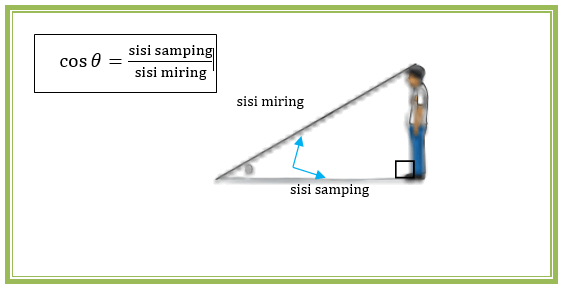
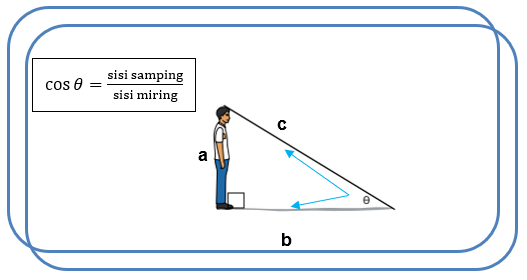
first commit

Changed region(s): [[0.0, 0.0, 1.0, 1.0], [0.3643, 0.2, 0.7894, 0.7714]]

diff --git a/scripts/next2.js b/scripts/next2.js
@@ -110,7 +110,103 @@ if (window.addEventListener) {
 <li>
 <b>Cosinus</b><br>
 Nilai Perbandingan ini mempunyai nama khusus yaitu Cosinus (disingkat Cos). Cos suatu sudut yang dapat ditentukan dengan membagi panjang <b class="text-danger">sisi samping</b>   dan <b class="text-danger">sisi miring segitiga</b> .  <br>
-<img src="../images/cosinus.png" class="img-fluid w-75" alt="Responsive image"> 
+<img src="../images/cosinus.png" class="img-fluid w-75" alt="Responsive image"> </br>pada gambar di atas manakah sisi samping dan sisi miring? 
+<iframe
+ id="JotFormIFrame-232170612128446"
+ title="Jawab"
+ onload="window.parent.scrollTo(0,0)"
+ allowtransparency="true"
+ allowfullscreen="true"
+ allow="geolocation; microphone; camera"
+ src="https://form.jotform.com/232170612128446"
+ frameborder="0"
+ style="min-width:100%;max-width:100%;height:539px;border:none;"
+ scrolling="yes"
+>
+</iframe>
+<script type="text/javascript">
+var ifr = document.getElementById("JotFormIFrame-232170612128446");
+if (ifr) {
+ var src = ifr.src;
+ var iframeParams = [];
+ if (window.location.href && window.location.href.indexOf("?") > -1) {
+   iframeParams = iframeParams.concat(window.location.href.substr(window.location.href.indexOf("?") + 1).split('&'));
+ }
+ if (src && src.indexOf("?") > -1) {
+   iframeParams = iframeParams.concat(src.substr(src.indexOf("?") + 1).split("&"));
+   src = src.substr(0, src.indexOf("?"))
+ }
+ iframeParams.push("isIframeEmbed=1");
+ ifr.src = src + "?" + iframeParams.join('&');
+}
+window.handleIFrameMessage = function(e) {
+ if (typeof e.data === 'object') { return; }
+ var args = e.data.split(":");
+ if (args.length > 2) { iframe = document.getElementById("JotFormIFrame-" + args[(args.length - 1)]); } else { iframe = document.getElementById("JotFormIFrame"); }
+ if (!iframe) { return; }
+ switch (args[0]) {
+   case "scrollIntoView":
+     iframe.scrollIntoView();
+     break;
+   case "setHeight":
+     iframe.style.height = args[1] + "px";
+     if (!isNaN(args[1]) && parseInt(iframe.style.minHeight) > parseInt(args[1])) {
+       iframe.style.minHeight = args[1] + "px";
+     }
+     break;
+   case "collapseErrorPage":
+     if (iframe.clientHeight > window.innerHeight) {
+       iframe.style.height = window.innerHeight + "px";
+     }
+     break;
+   case "reloadPage":
+     window.location.reload();
+     break;
+   case "loadScript":
+     if( !window.isPermitted(e.origin, ['jotform.com', 'jotform.pro']) ) { break; }
+     var src = args[1];
+     if (args.length > 3) {
+         src = args[1] + ':' + args[2];
+     }
+     var script = document.createElement('script');
+     script.src = src;
+     script.type = 'text/javascript';
+     document.body.appendChild(script);
+     break;
+   case "exitFullscreen":
+     if      (window.document.exitFullscreen)        window.document.exitFullscreen();
+     else if (window.document.mozCancelFullScreen)   window.document.mozCancelFullScreen();
+     else if (window.document.mozCancelFullscreen)   window.document.mozCancelFullScreen();
+     else if (window.document.webkitExitFullscreen)  window.document.webkitExitFullscreen();
+     else if (window.document.msExitFullscreen)      window.document.msExitFullscreen();
+     break;
+ }
+ var isJotForm = (e.origin.indexOf("jotform") > -1) ? true : false;
+ if(isJotForm && "contentWindow" in iframe && "postMessage" in iframe.contentWindow) {
+   var urls = {"docurl":encodeURIComponent(document.URL),"referrer":encodeURIComponent(document.referrer)};
+   iframe.contentWindow.postMessage(JSON.stringify({"type":"urls","value":urls}), "*");
+ }
+};
+window.isPermitted = function(originUrl, whitelisted_domains) {
+ var url = document.createElement('a');
+ url.href = originUrl;
+ var hostname = url.hostname;
+ var result = false;
+ if( typeof hostname !== 'undefined' ) {
+   whitelisted_domains.forEach(function(element) {
+       if( hostname.slice((-1 * element.length - 1)) === '.'.concat(element) ||  hostname === element ) {
+           result = true;
+       }
+   });
+   return result;
+ }
+};
+if (window.addEventListener) {
+ window.addEventListener("message", handleIFrameMessage, false);
+} else if (window.attachEvent) {
+ window.attachEvent("onmessage", handleIFrameMessage);
+}
+</script> 
 </li>
 
 <li>
@@ -118,7 +214,103 @@ Nilai Perbandingan ini mempunyai nama khusus yaitu Cosinus (disingkat Cos). Cos 
 Nilai Perbandingan ini mempunyai nama khusus yaitu Tangen 
 (disingkat tan). Tan suatu sudut yang dapat ditentukan dengan membagi panjang <b class="text-danger">sisi depan</b>  dan <b class="text-danger">sisi samping segitiga</b>. 
   <br>
-<img src="../images/tangen.png" class="img-fluid w-75" alt="Responsive image"> 
+<img src="../images/tangen.png" class="img-fluid w-75" alt="Responsive image"> </br> pada gambar di atas manakah sisi samping dan sisi miring? 
+<iframe
+ id="JotFormIFrame-232170612128446"
+ title="Jawab"
+ onload="window.parent.scrollTo(0,0)"
+ allowtransparency="true"
+ allowfullscreen="true"
+ allow="geolocation; microphone; camera"
+ src="https://form.jotform.com/232170612128446"
+ frameborder="0"
+ style="min-width:100%;max-width:100%;height:539px;border:none;"
+ scrolling="yes"
+>
+</iframe>
+<script type="text/javascript">
+var ifr = document.getElementById("JotFormIFrame-232170612128446");
+if (ifr) {
+ var src = ifr.src;
+ var iframeParams = [];
+ if (window.location.href && window.location.href.indexOf("?") > -1) {
+   iframeParams = iframeParams.concat(window.location.href.substr(window.location.href.indexOf("?") + 1).split('&'));
+ }
+ if (src && src.indexOf("?") > -1) {
+   iframeParams = iframeParams.concat(src.substr(src.indexOf("?") + 1).split("&"));
+   src = src.substr(0, src.indexOf("?"))
+ }
+ iframeParams.push("isIframeEmbed=1");
+ ifr.src = src + "?" + iframeParams.join('&');
+}
+window.handleIFrameMessage = function(e) {
+ if (typeof e.data === 'object') { return; }
+ var args = e.data.split(":");
+ if (args.length > 2) { iframe = document.getElementById("JotFormIFrame-" + args[(args.length - 1)]); } else { iframe = document.getElementById("JotFormIFrame"); }
+ if (!iframe) { return; }
+ switch (args[0]) {
+   case "scrollIntoView":
+     iframe.scrollIntoView();
+     break;
+   case "setHeight":
+     iframe.style.height = args[1] + "px";
+     if (!isNaN(args[1]) && parseInt(iframe.style.minHeight) > parseInt(args[1])) {
+       iframe.style.minHeight = args[1] + "px";
+     }
+     break;
+   case "collapseErrorPage":
+     if (iframe.clientHeight > window.innerHeight) {
+       iframe.style.height = window.innerHeight + "px";
+     }
+     break;
+   case "reloadPage":
+     window.location.reload();
+     break;
+   case "loadScript":
+     if( !window.isPermitted(e.origin, ['jotform.com', 'jotform.pro']) ) { break; }
+     var src = args[1];
+     if (args.length > 3) {
+         src = args[1] + ':' + args[2];
+     }
+     var script = document.createElement('script');
+     script.src = src;
+     script.type = 'text/javascript';
+     document.body.appendChild(script);
+     break;
+   case "exitFullscreen":
+     if      (window.document.exitFullscreen)        window.document.exitFullscreen();
+     else if (window.document.mozCancelFullScreen)   window.document.mozCancelFullScreen();
+     else if (window.document.mozCancelFullscreen)   window.document.mozCancelFullScreen();
+     else if (window.document.webkitExitFullscreen)  window.document.webkitExitFullscreen();
+     else if (window.document.msExitFullscreen)      window.document.msExitFullscreen();
+     break;
+ }
+ var isJotForm = (e.origin.indexOf("jotform") > -1) ? true : false;
+ if(isJotForm && "contentWindow" in iframe && "postMessage" in iframe.contentWindow) {
+   var urls = {"docurl":encodeURIComponent(document.URL),"referrer":encodeURIComponent(document.referrer)};
+   iframe.contentWindow.postMessage(JSON.stringify({"type":"urls","value":urls}), "*");
+ }
+};
+window.isPermitted = function(originUrl, whitelisted_domains) {
+ var url = document.createElement('a');
+ url.href = originUrl;
+ var hostname = url.hostname;
+ var result = false;
+ if( typeof hostname !== 'undefined' ) {
+   whitelisted_domains.forEach(function(element) {
+       if( hostname.slice((-1 * element.length - 1)) === '.'.concat(element) ||  hostname === element ) {
+           result = true;
+       }
+   });
+   return result;
+ }
+};
+if (window.addEventListener) {
+ window.addEventListener("message", handleIFrameMessage, false);
+} else if (window.attachEvent) {
+ window.attachEvent("onmessage", handleIFrameMessage);
+}
+</script> 
 </li>
 </ol>
 </ul>
